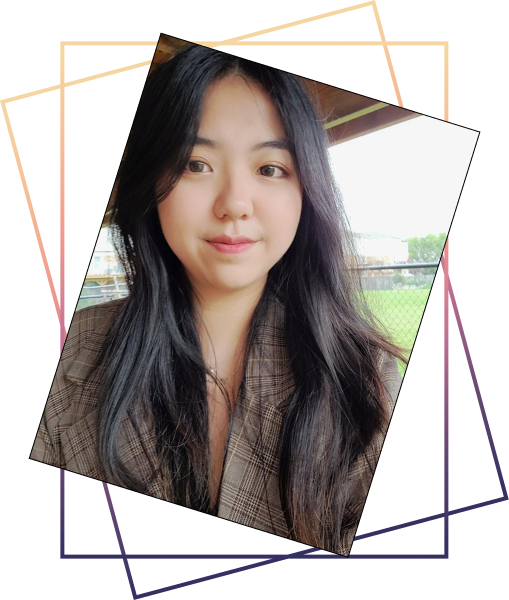
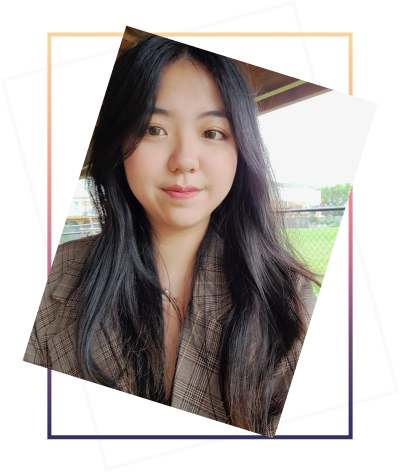
Changed up home page cards and about page selfie. Also took off aprio as a web case study, and made the system better for rescaling instead of hard coding

diff --git a/src/Pages/Work.jsx b/src/Pages/Work.jsx
@@ -24,7 +24,7 @@ export const Work = () => {
   const tags = ["all-tag", "web-tag", "mobile-tag", "prototyping-tag", "design-system-tag"];
   const [currentTag, setCurrentTag] = useState("all-tag");
   const allCards = ["access-card", "sponsorcircle-card", "knowbie-card", "aprio-card", "pivot-card", "finwell-card"];
-  const webCards = ["access-card", "sponsorcircle-card", "knowbie-card", "aprio-card", "pivot-card"];
+  const webCards = ["access-card", "sponsorcircle-card", "aprio-card", "pivot-card"];
   const mobileCards = ["sponsorcircle-card", "knowbie-card", "finwell-card"];
   const prototypingCards = ["knowbie-card", "pivot-card", "finwell-card"];
   const designSystemCards = ["access-card", "pivot-card", "finwell-card"];
@@ -86,27 +86,8 @@ export const Work = () => {
           el.classList.add("active");
         }
       }
-      document.getElementById("sponsorcircle-card").style.marginLeft = "1%";
-      document.getElementById("knowbie-card").style.marginLeft = "1%";
-      document.getElementById("knowbie-card").style.marginRight = "0%";
       cardsArrayUsed = allCards;
     } else {
-      if (currentTag === "mobile-tag" || currentTag === "prototyping-tag") {
-        document.getElementById("knowbie-card").style.marginRight = "1%";
-        if (currentTag === "mobile-tag") {
-          document.getElementById("sponsorcircle-card").style.marginLeft = "0%";
-          document.getElementById("knowbie-card").style.marginLeft = "1%";
-
-        } else {
-          document.getElementById("sponsorcircle-card").style.marginLeft = "1%";
-          document.getElementById("knowbie-card").style.marginLeft = "0%";
-        }
-      } else {
-        document.getElementById("knowbie-card").style.marginRight = "0%";
-        document.getElementById("knowbie-card").style.marginLeft = "1%";
-        document.getElementById("sponsorcircle-card").style.marginLeft = "1%";
-      }
-
       if (currentTag === "web-tag") {
         cardsArrayUsed = webCards;
       } else if (currentTag === "mobile-tag") {
@@ -276,7 +257,7 @@ export const Work = () => {
 
           <div>
             <div className="intro-fade">
-              <p className="b0">A coffee-infused <u className="underline">Product Designer</u> based in Vancouver 🍁, currently building digital products @ Moken Agency.</p>
+              <p className="b0">A coffee-infused <u className="underline">Product Designer</u> based in Vancouver 🍁 currently building digital products @ Moken Agency.</p>
             </div>
           </div>
 
@@ -317,35 +298,38 @@ export const Work = () => {
         </div>
 
         <div id="case-studies-container">
-          <a className="cards-div active appear-on-scroll-2" href="/access" id="access-card">
-            <img className="first-active" src={AccessCard} alt=""/>
-            <img className="first-inactive" src={AccessCardActive} alt=""/>
-          </a>
+          <div className="minus-margin-sides">
+            <a className="cards-div active appear-on-scroll-2" href="/access" id="access-card">
+              <img className="first-active" src={AccessCard} alt=""/>
+              <img className="first-inactive" src={AccessCardActive} alt=""/>
+            </a>
 
-          <a className="cards-div active appear-on-scroll-2" href="/sponsorcircle" id="sponsorcircle-card">
-            <img className="first-active" src={SponsorCircleCard} alt=""/>
-            <img className="first-inactive" src={SponsorCircleCardActive} alt=""/>
-          </a>
+            <a className="cards-div active appear-on-scroll-2" href="/sponsorcircle" id="sponsorcircle-card">
+              <img className="first-active" src={SponsorCircleCard} alt=""/>
+              <img className="first-inactive" src={SponsorCircleCardActive} alt=""/>
+            </a>
 
-          <a className="cards-div active appear-on-scroll-2" href="/knowbie" id="knowbie-card">
-            <img className="first-active" src={KnowbieCard} alt=""/>
-            <img className="first-inactive" src={KnowbieCardActive} alt=""/>
-          </a>
+            <a className="cards-div active appear-on-scroll-2" href="/knowbie" id="knowbie-card">
+              <img className="first-active" src={KnowbieCard} alt=""/>
+              <img className="first-inactive" src={KnowbieCardActive} alt=""/>
+            </a>
 
-          <a className="cards-div active appear-on-scroll-2" href="/aprio" id="aprio-card">
-            <img className="first-active" src={AprioCard} alt=""/>
-            <img className="first-inactive" src={AprioCardActive} alt=""/>
-          </a>
+            <a className="cards-div active appear-on-scroll-2" href="/aprio" id="aprio-card">
+              <img className="first-active" src={AprioCard} alt=""/>
+              <img className="first-inactive" src={AprioCardActive} alt=""/>
+            </a>
 
-          <a className="cards-div active appear-on-scroll-2" href="/pivot" id="pivot-card">
-            <img className="first-active" src={PivotCard} alt=""/>
-            <img className="first-inactive" src={PivotCardActive} alt=""/>
-          </a>
+            <a className="cards-div active appear-on-scroll-2" href="/pivot" id="pivot-card">
+              <img className="first-active" src={PivotCard} alt=""/>
+              <img className="first-inactive" src={PivotCardActive} alt=""/>
+            </a>
 
-          <a className="cards-div active appear-on-scroll-2" href="/finwell" id="finwell-card">
-            <img className="first-active" src={FinWellCard} alt=""/>
-            <img className="first-inactive" src={FinWellCardActive} alt=""/>
-          </a>
+            <a className="cards-div active appear-on-scroll-2" href="/finwell" id="finwell-card">
+              <img className="first-active" src={FinWellCard} alt=""/>
+              <img className="first-inactive" src={FinWellCardActive} alt=""/>
+            </a>
+          </div>
+
 
         </div>
       </div>

diff --git a/src/Stylesheets/Work.scss b/src/Stylesheets/Work.scss
@@ -89,6 +89,11 @@
     width: $default-margin-width;
     margin-left: auto;
     margin-right: auto;
+
+    .minus-margin-sides {
+      margin-left: -1%;
+      margin-right: -1%;
+    }
   }
 
   .cards-div.active {
@@ -100,7 +105,7 @@
     position: relative;
     cursor: none;
     margin-bottom: 2vw;
-    width: 32%;
+    width: 31.33%;
 
     img {
       display: block;
@@ -108,7 +113,7 @@
     }
 
     .first-active {
-      opacity: 0.8;
+      opacity: 1;
       position: absolute;
       transition: all 0.25s ease-in-out;
       top: 0;
@@ -130,7 +135,7 @@
     }
 
     .first-inactive {
-      opacity: 0.8;
+      opacity: 0.85;
       transition: all 0.25s ease-in-out;
       transform: translateY(-10px);
     }
@@ -227,17 +232,9 @@
     content: "Design System";
   }
 
-  #access-card, #aprio-card {
-    margin-right: 1%;
-  }
-
-  #sponsorcircle-card, #pivot-card {
+  #access-card, #sponsorcircle-card, #aprio-card, #pivot-card, #knowbie-card, #finwell-card {
     margin-left: 1%;
     margin-right: 1%;
-  }
-
-  #knowbie-card, #finwell-card {
-    margin-left: 1%;
   }
 
   #access-card, #sponsorcircle-card, #knowbie-card {
